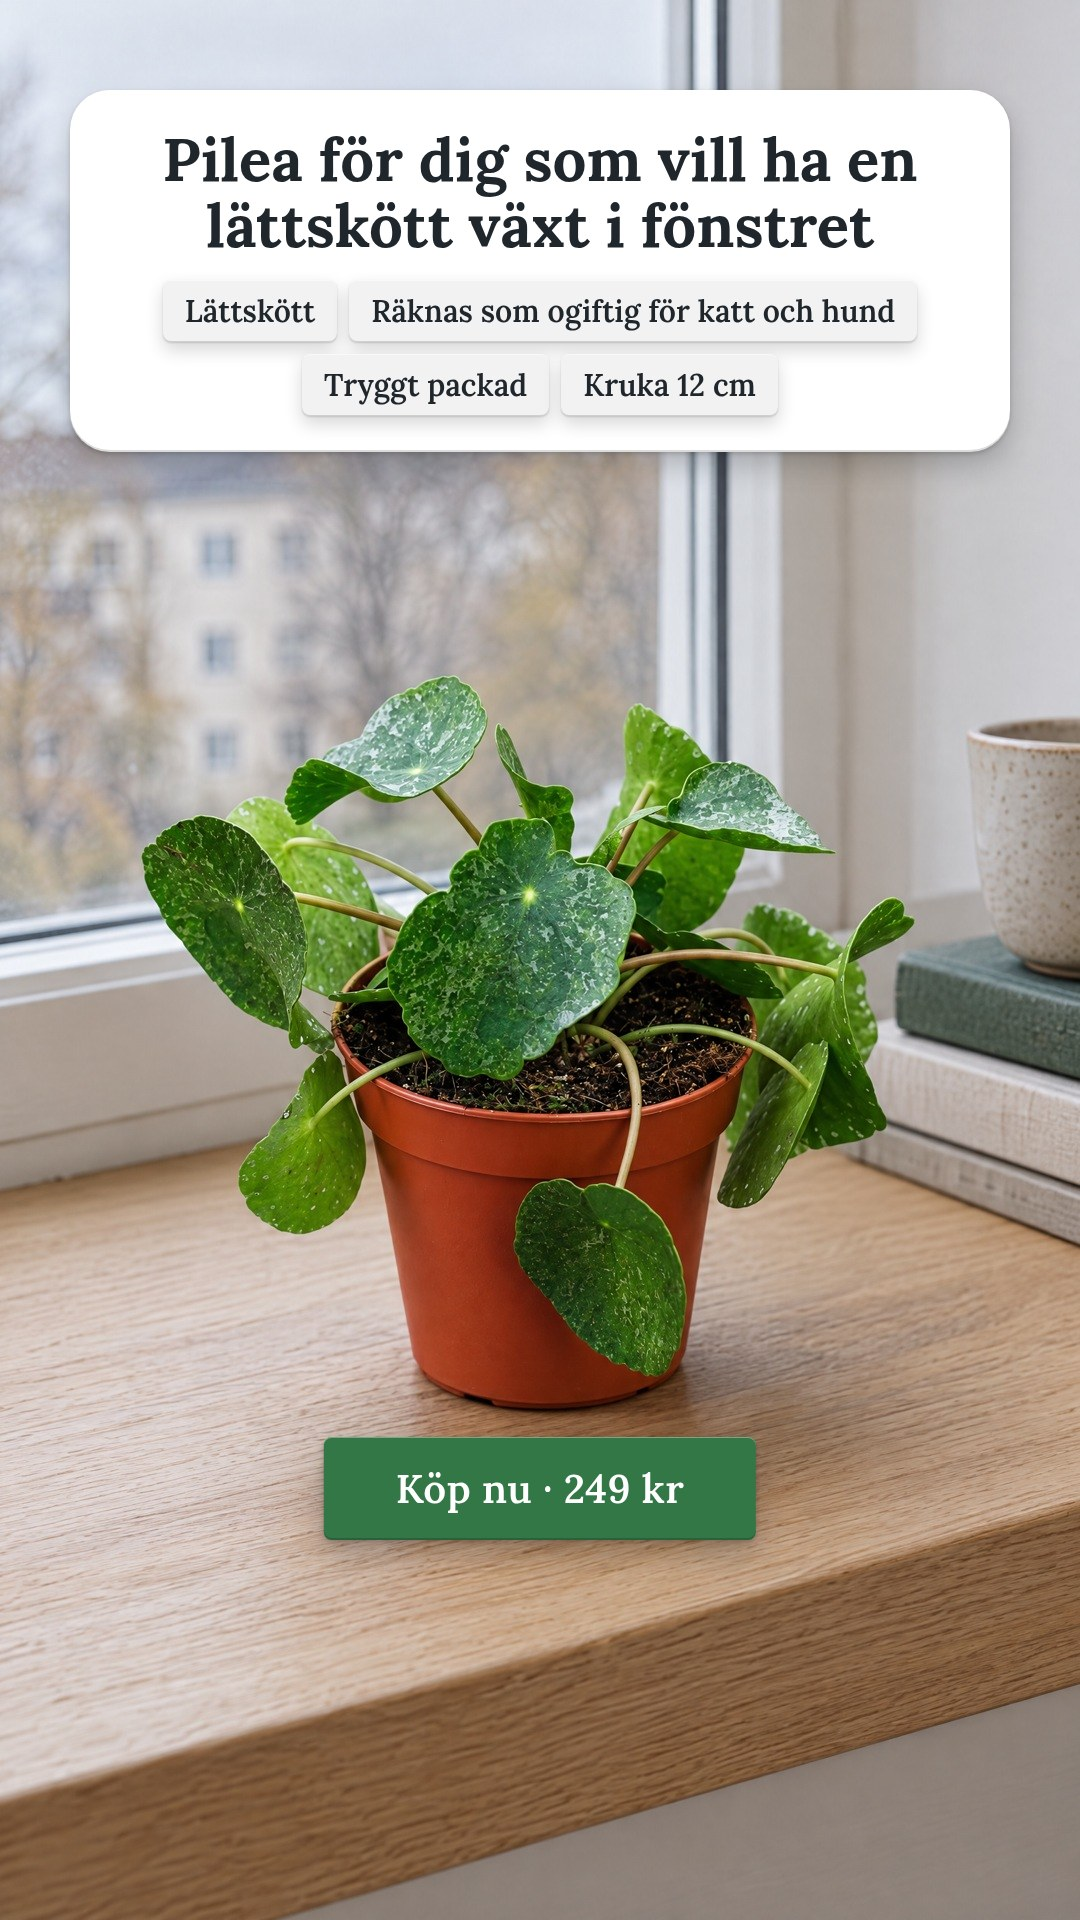
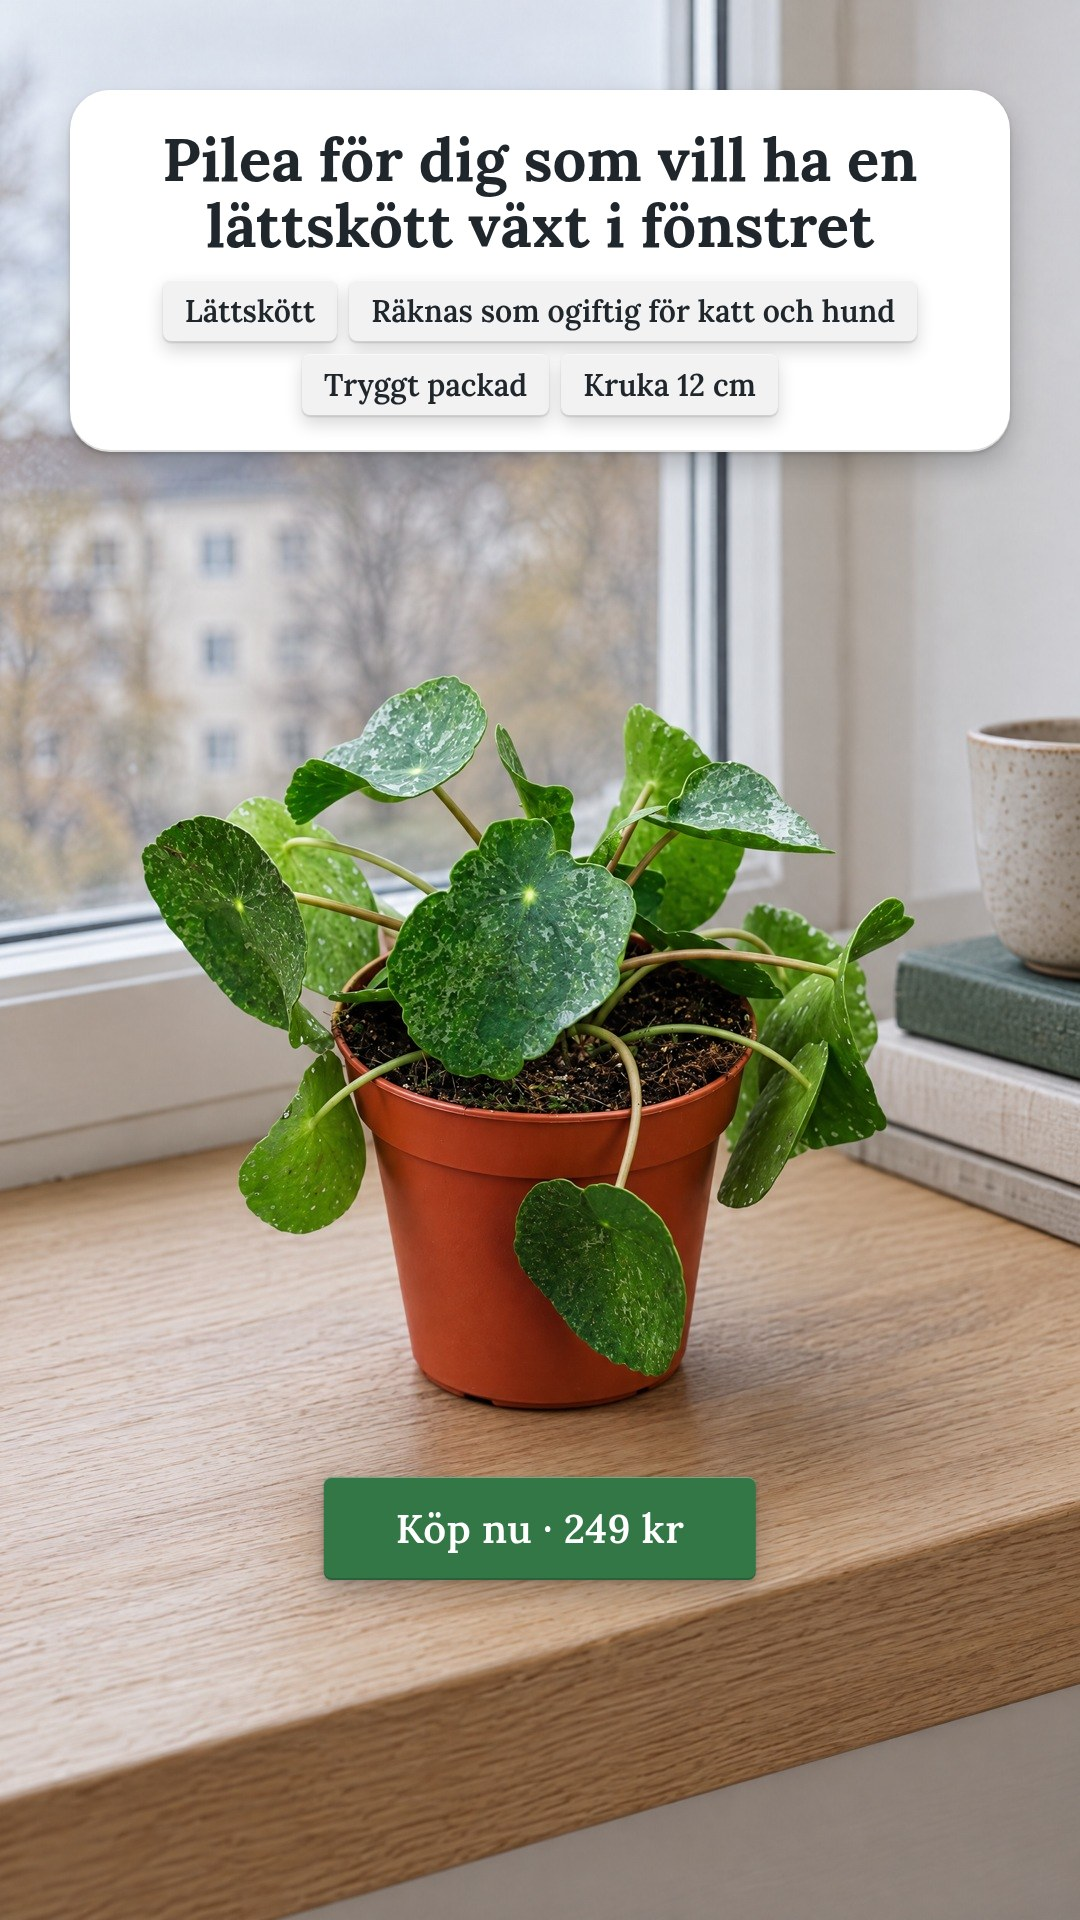
klorofyllverket: omtag 2 efter Jons dom 10:45, annons-1 varv 3, annons-2 varv 5, annons-3 varv 4 (bara Köp nu · 249 kr flyttad ner), ?v=3, förkontrollerade av Bildgranskaren (med anmärkning)

Changed region(s): [[0.275, 0.75, 0.7028, 0.8438]]

diff --git a/klorofyllverket/index.html b/klorofyllverket/index.html
@@ -125,9 +125,9 @@ a{color:inherit}
   <section class="table" aria-label="Era tre annonser">
     <div class="sticker">De är era, ladda ner</div>
     <div class="fan">
-      <figure class="print" style="margin:0"><img src="annons-1.jpg" alt="Annons 1 för Pilea peperomioides 'Sugar' 12 cm" loading="eager"><a class="dl" href="annons-1.jpg" download><span>Annons 1</span><span>Ladda ner</span></a></figure>
-      <figure class="print" style="margin:0"><img src="annons-2.jpg" alt="Annons 2 för Pilea peperomioides 'Sugar' 12 cm" loading="eager"><a class="dl" href="annons-2.jpg" download><span>Annons 2</span><span>Ladda ner</span></a></figure>
-      <figure class="print" style="margin:0"><img src="annons-3.jpg" alt="Annons 3 för Pilea peperomioides 'Sugar' 12 cm" loading="eager"><a class="dl" href="annons-3.jpg" download><span>Annons 3</span><span>Ladda ner</span></a></figure>
+      <figure class="print" style="margin:0"><img src="annons-1.jpg?v=3" alt="Annons 1 för Pilea peperomioides 'Sugar' 12 cm" loading="eager"><a class="dl" href="annons-1.jpg?v=3" download><span>Annons 1</span><span>Ladda ner</span></a></figure>
+      <figure class="print" style="margin:0"><img src="annons-2.jpg?v=3" alt="Annons 2 för Pilea peperomioides 'Sugar' 12 cm" loading="eager"><a class="dl" href="annons-2.jpg?v=3" download><span>Annons 2</span><span>Ladda ner</span></a></figure>
+      <figure class="print" style="margin:0"><img src="annons-3.jpg?v=3" alt="Annons 3 för Pilea peperomioides 'Sugar' 12 cm" loading="eager"><a class="dl" href="annons-3.jpg?v=3" download><span>Annons 3</span><span>Ladda ner</span></a></figure>
     </div>
   </section>
   <p class="under">Det här är riktmärken som visar stilen. När ni beställer går vi djupare med er produkt, era egna bilder och era omdömen.</p>
